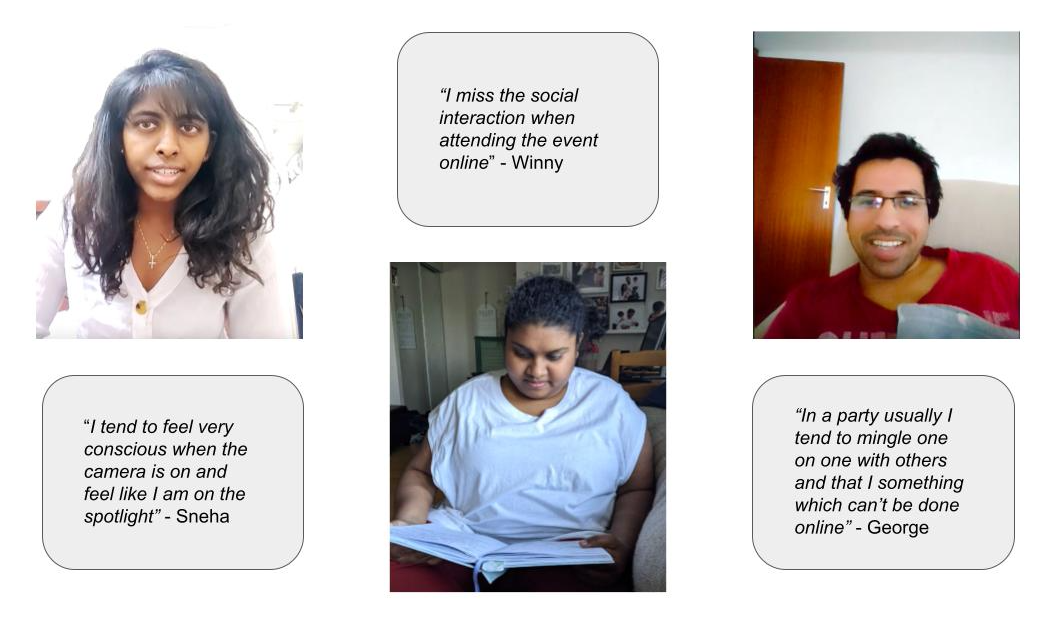
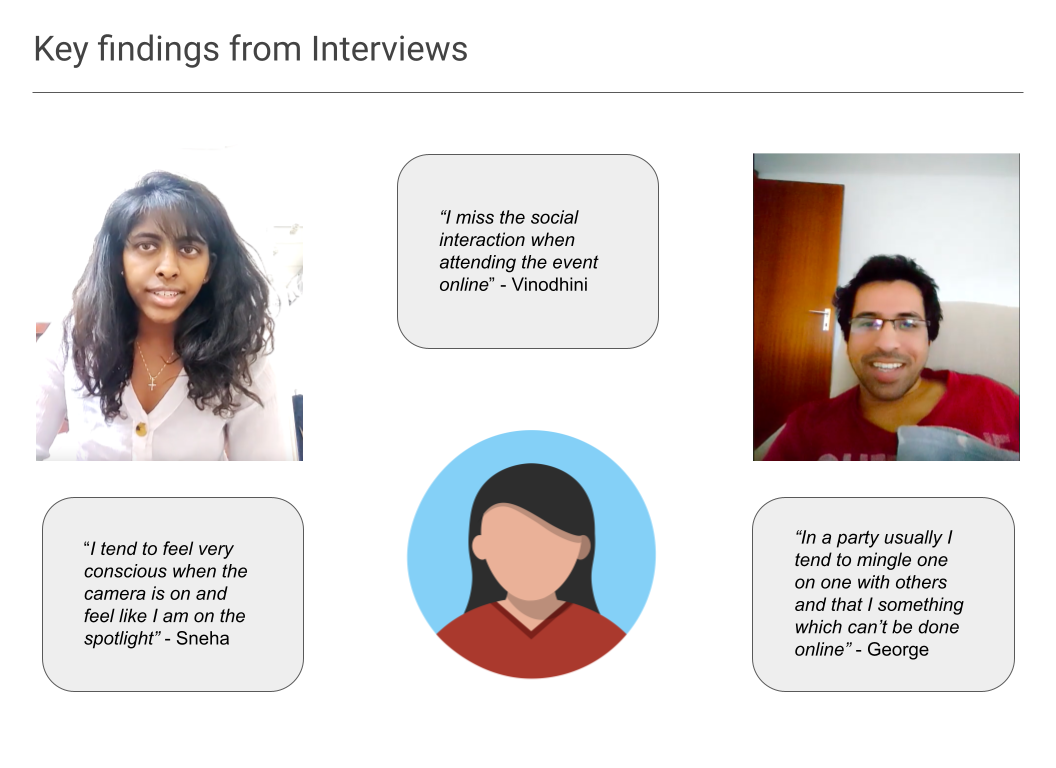
edited

diff --git a/zoom.html b/zoom.html
@@ -223,7 +223,7 @@
             <p>The user interview provided key insight on how a person interacts online and their emotional and mental
               reaction to being in a virtual meeting.</p>
             <img class="img-fluid" src="./assets/images/zoom/interview1.png" alt="interview snapshots">
-            <figcaption class="d-flex justify-content-center mb-3">Interview Highlights of Sneha, Winny and George
+            <figcaption class="d-flex justify-content-center mb-3">Interview Highlights of Sneha, Vinodhini and George
             </figcaption>
             <img class="img-fluid" src="./assets/images/zoom/interview2.png" alt="interview snapshots">
             <figcaption class="d-flex justify-content-center mb-3">Interview Highlights of Bobin, Vani and Chikku
